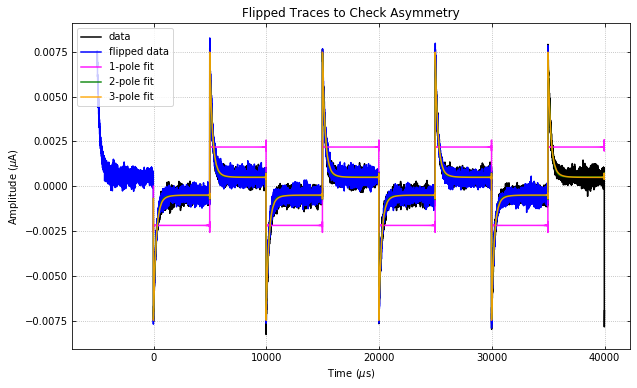
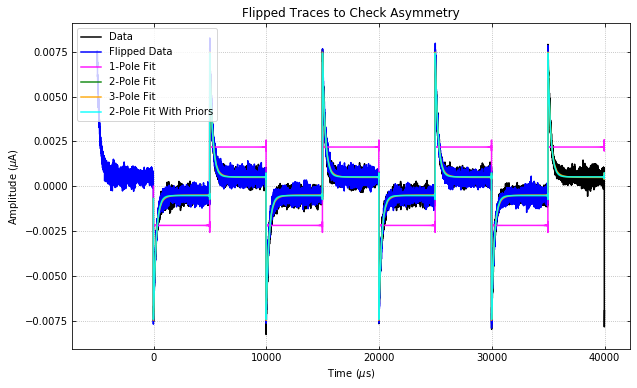
update DIDV demo for readthedocs

diff --git a/docs/example_demos/test_didv.rst b/docs/example_demos/test_didv.rst
@@ -39,66 +39,72 @@ Import the needed packages to run the test script.
     
     %matplotlib inline
 
-
-.. parsed-literal::
-
-    /galbascratch/samwatkins/anaconda3/lib/python3.6/site-packages/h5py/__init__.py:36: FutureWarning: Conversion of the second argument of issubdtype from `float` to `np.floating` is deprecated. In future, it will be treated as `np.float64 == np.dtype(float).type`.
-      from ._conv import register_converters as _register_converters
-
-
 Set all of the necessary parameters and load the traces from an HDF5
 file in the repository.
 
 .. code:: ipython3
 
     # Setting various parameters that are specific to the dataset
-    Rshunt = 5.0e-3
-    Rbias_SG = 20000.0
-    Rfb = 5000.0
+    rshunt = 5e-3
+    rbias_sg = 20000
+    rfb = 5000
     loopgain = 2.4
-    ADCperVolt = 65536.0/2.0
-    fs = 625.0e3
-    sgFreq = 100.0
-    sgAmp = 0.009381 /Rbias_SG
-    drivergain = 4.0
-    Rp = 0.0060367199999999998
-    Rload = Rshunt+Rp
-    dRload = 0.0001
-    R0 = 0.075570107054005367
-    dR0 = 8.96383052e-04
+    adcpervolt = 65536 / 2
+    fs = 625e3
+    sgfreq = 100
+    sgamp = 0.009381 / rbias_sg
+    drivergain = 4
+    rp = 0.0060367199999999998
+    rload = rshunt + rp
+    drload = 0.0001
+    r0 = 0.075570107054005367
+    dr0 = 8.96383052e-04
     
-    convToAmps = Rfb * loopgain * drivergain * ADCperVolt
-    
-    saveResults = False
+    convtoamps = rfb * loopgain * drivergain * adcpervolt
     
     # load the dataset
     with h5py.File('example_traces.h5','r') as f:
-        rawTraces = np.array(f["rawTraces"])
-    
-    fileSaveName = "example_traces_data"
+        rawtraces = np.array(f["rawTraces"])
     
     # set the priors information, for use the priors fitting
     priors = np.zeros(7)
-    invpriorsCov = np.zeros((7,7))
-    priors[0] = Rload
-    priors[1] = R0
-    invpriorsCov[0,0] = 1.0/dRload**2
-    invpriorsCov[1,1] = 1.0/dR0**2
-    dt0=-18.8e-6
+    invpriorscov = np.zeros((7,7))
+    priors[0] = rload
+    priors[1] = r0
+    invpriorscov[0, 0] = 1 / drload**2
+    invpriorscov[1, 1] = 1 / dr0**2
+    dt0 = -18.8e-6
 
 Run the processing package on the data.
 
 .. code:: ipython3
 
-    didvfit = DIDV(rawTraces, fs, sgFreq, sgAmp, Rshunt, tracegain=convToAmps) #note that there are many more attributes
+    didvfit = DIDV(
+        rawtraces,
+        fs,
+        sgfreq,
+        sgamp,
+        rshunt,
+        tracegain=convtoamps,
+        priors=priors,
+        invpriorscov=invpriorscov,
+    )
+    
+    # note that there are many more attributes for DIDV
+    
     didvfit.processtraces()
     didvfit.doallfits()
     # didvfit.dofit(2) # just do one fit
-    didvfit.plot_full_trace()
+    didvfit.plot_full_trace(poles=2, plotpriors=False)
+
+
+.. parsed-literal::
+
+    2-Pole Priors Fit Failed: The maximum number of function evaluations is exceeded.
 
 
 
-.. image:: test_didv_files/test_didv_7_0.png
+.. image:: test_didv_files/test_didv_7_1.png
 
 
 Let's look at the fit parameters for the 2-pole fit.
@@ -187,7 +193,7 @@ Let's first plot all of this fits on the full trace.
 
 .. code:: ipython3
 
-    didvfit.plot_full_trace(poles="all",plotpriors=True)
+    didvfit.plot_full_trace(poles="all", plotpriors=True)
 
 
 
@@ -200,14 +206,14 @@ variable.
 
 .. code:: ipython3
 
-    didvfit.plot_single_period_of_trace(poles=[2,3], lgcsave=True, savename="test")
+    didvfit.plot_single_period_of_trace(poles=[2, 3], lgcsave=True, savename="test", plotpriors=False)
 
 Let's plot a zoomed in trace of just the 2 pole fit. Note that by
 default, all fits are plotted.
 
 .. code:: ipython3
 
-    didvfit.plot_zoomed_in_trace(poles=2)
+    didvfit.plot_zoomed_in_trace(poles=2, plotpriors=False)
 
 
 
@@ -231,7 +237,7 @@ Now let's look at the real and imaginary parts of the dIdV.
 
 .. code:: ipython3
 
-    didvfit.plot_re_im_didv(poles=[2,3])
+    didvfit.plot_re_im_didv(poles=[2, 3], plotpriors=False)
 
 
 
@@ -240,4 +246,21 @@ Now let's look at the real and imaginary parts of the dIdV.
 
 
 .. image:: test_didv_files/test_didv_25_1.png
+
+
+Alternatively, we can look at the absolute value and the phase of the
+dIdV.
+
+.. code:: ipython3
+
+    didvfit.plot_abs_phase_didv(poles=[2, 3], plotpriors=False)
+
+
+
+.. image:: test_didv_files/test_didv_27_0.png
+
+
+
+.. image:: test_didv_files/test_didv_27_1.png
+
 
